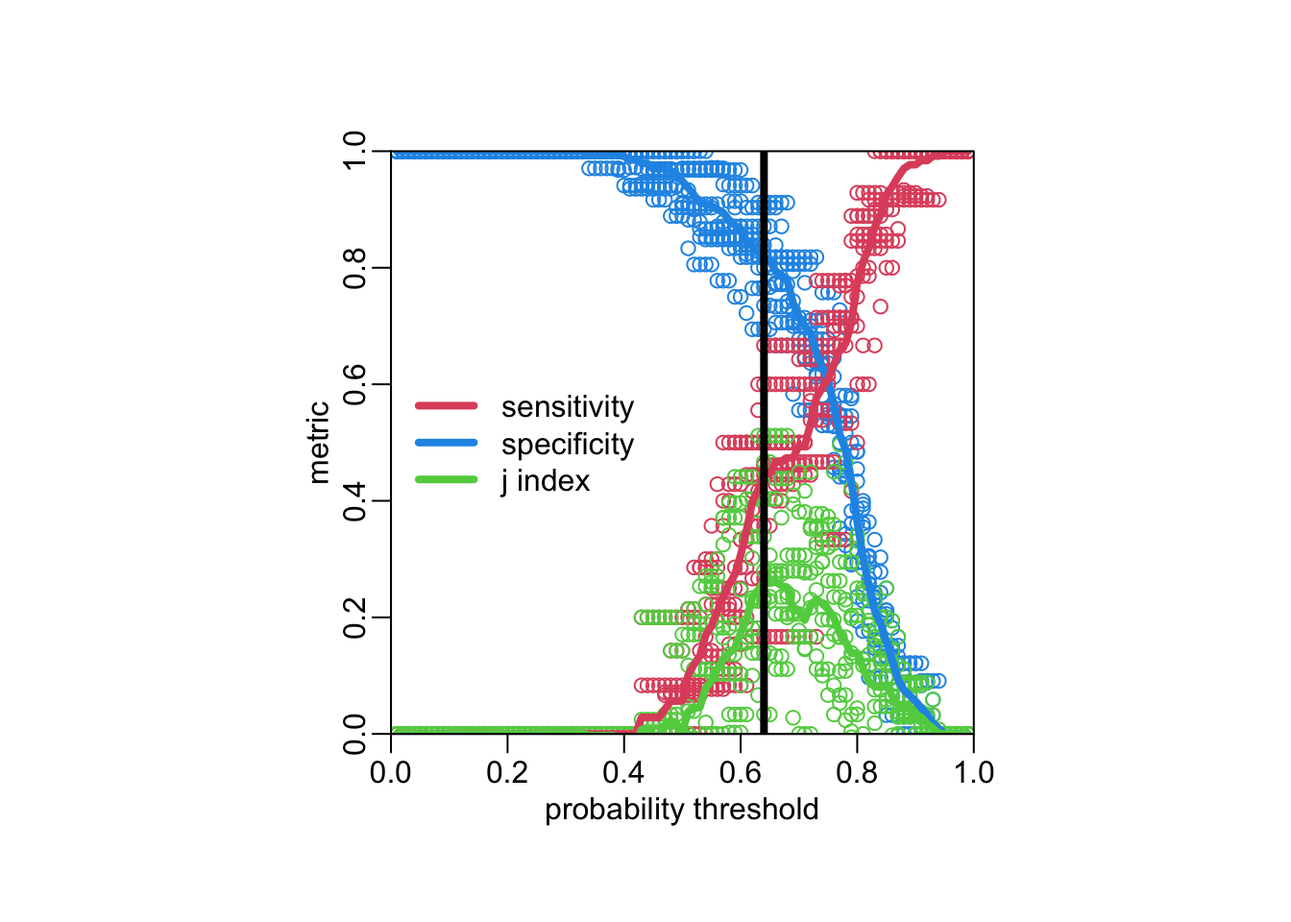
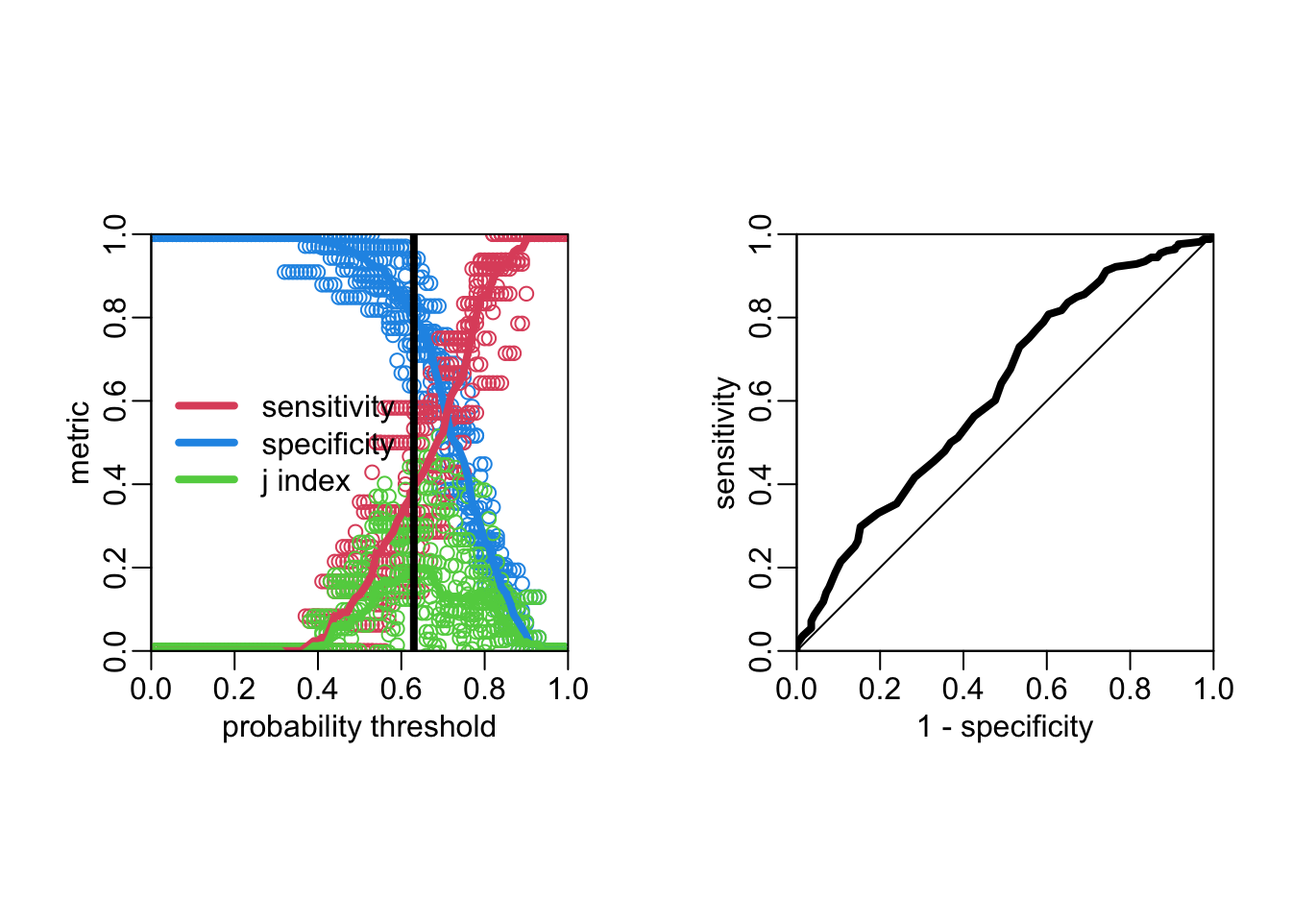
Adding verbatims

diff --git a/analysis.html b/analysis.html
@@ -98,8 +98,8 @@ pre > code.sourceCode > span > a:first-child::before { text-decoration: underlin
 
 <section id="parameters" class="level2">
 <h2 class="anchored" data-anchor-id="parameters">Parameters</h2>
-<p>The data to the data:</p>
-<div class="cell">
+<p>The path to the data:</p>
+<div class="cell" data-layout-align="center">
 <div class="sourceCode cell-code" id="cb1"><pre class="sourceCode r code-with-copy"><code class="sourceCode r"><span id="cb1-1"><a href="#cb1-1" aria-hidden="true" tabindex="-1"></a>data_path <span class="ot">&lt;-</span> <span class="fu">paste0</span>(<span class="st">"/Users/MarcChoisy/Library/CloudStorage/"</span>,</span>
 <span id="cb1-2"><a href="#cb1-2" aria-hidden="true" tabindex="-1"></a>                    <span class="st">"OneDrive-OxfordUniversityClinicalResearchUnit/"</span>,</span>
 <span id="cb1-3"><a href="#cb1-3" aria-hidden="true" tabindex="-1"></a>                    <span class="st">"GitHub/choisy/typhoid/"</span>)</span></code><button title="Copy to Clipboard" class="code-copy-button"><i class="bi"></i></button></pre></div>
@@ -107,18 +107,18 @@ pre > code.sourceCode > span > a:first-child::before { text-decoration: underlin
 </section>
 <section id="packages" class="level2">
 <h2 class="anchored" data-anchor-id="packages">Packages</h2>
-<p>Needed packages:</p>
-<div class="cell">
-<div class="sourceCode cell-code" id="cb2"><pre class="sourceCode r code-with-copy"><code class="sourceCode r"><span id="cb2-1"><a href="#cb2-1" aria-hidden="true" tabindex="-1"></a>needed_packages <span class="ot">&lt;-</span> <span class="fu">c</span>(<span class="st">"readxl"</span>, <span class="st">"dplyr"</span>, <span class="st">"purrr"</span>, <span class="st">"rsample"</span>, <span class="st">"parsnip"</span>, <span class="st">"probably"</span>,</span>
+<p>required packages:</p>
+<div class="cell" data-layout-align="center">
+<div class="sourceCode cell-code" id="cb2"><pre class="sourceCode r code-with-copy"><code class="sourceCode r"><span id="cb2-1"><a href="#cb2-1" aria-hidden="true" tabindex="-1"></a>required_packages <span class="ot">&lt;-</span> <span class="fu">c</span>(<span class="st">"readxl"</span>, <span class="st">"dplyr"</span>, <span class="st">"purrr"</span>, <span class="st">"rsample"</span>, <span class="st">"parsnip"</span>, <span class="st">"probably"</span>,</span>
 <span id="cb2-2"><a href="#cb2-2" aria-hidden="true" tabindex="-1"></a>                     <span class="st">"magrittr"</span>, <span class="st">"yardstick"</span>, <span class="st">"tidyr"</span>)</span></code><button title="Copy to Clipboard" class="code-copy-button"><i class="bi"></i></button></pre></div>
 </div>
 <p>Making sure that needed packages are installed:</p>
-<div class="cell">
-<div class="sourceCode cell-code" id="cb3"><pre class="sourceCode r code-with-copy"><code class="sourceCode r"><span id="cb3-1"><a href="#cb3-1" aria-hidden="true" tabindex="-1"></a>to_install <span class="ot">&lt;-</span> needed_packages[<span class="sc">!</span> needed_packages <span class="sc">%in%</span> <span class="fu">installed.packages</span>()[,<span class="st">"Package"</span>]]</span>
+<div class="cell" data-layout-align="center">
+<div class="sourceCode cell-code" id="cb3"><pre class="sourceCode r code-with-copy"><code class="sourceCode r"><span id="cb3-1"><a href="#cb3-1" aria-hidden="true" tabindex="-1"></a>to_install <span class="ot">&lt;-</span> required_packages[<span class="sc">!</span> required_packages <span class="sc">%in%</span> <span class="fu">installed.packages</span>()[,<span class="st">"Package"</span>]]</span>
 <span id="cb3-2"><a href="#cb3-2" aria-hidden="true" tabindex="-1"></a><span class="cf">if</span> (<span class="fu">length</span>(to_install)) <span class="fu">install.packages</span>(to_install)</span></code><button title="Copy to Clipboard" class="code-copy-button"><i class="bi"></i></button></pre></div>
 </div>
 <p>Loading some of these packages:</p>
-<div class="cell">
+<div class="cell" data-layout-align="center">
 <div class="sourceCode cell-code" id="cb4"><pre class="sourceCode r code-with-copy"><code class="sourceCode r"><span id="cb4-1"><a href="#cb4-1" aria-hidden="true" tabindex="-1"></a><span class="fu">library</span>(dplyr)</span>
 <span id="cb4-2"><a href="#cb4-2" aria-hidden="true" tabindex="-1"></a><span class="fu">library</span>(purrr)</span>
 <span id="cb4-3"><a href="#cb4-3" aria-hidden="true" tabindex="-1"></a><span class="fu">library</span>(rsample)</span>
@@ -132,12 +132,12 @@ pre > code.sourceCode > span > a:first-child::before { text-decoration: underlin
 </section>
 <section id="reading-and-cleaning-data" class="level2">
 <h2 class="anchored" data-anchor-id="reading-and-cleaning-data">Reading and cleaning data</h2>
-<div class="cell">
+<div class="cell" data-layout-align="center">
 <div class="sourceCode cell-code" id="cb5"><pre class="sourceCode r code-with-copy"><code class="sourceCode r"><span id="cb5-1"><a href="#cb5-1" aria-hidden="true" tabindex="-1"></a>files <span class="ot">&lt;-</span> <span class="fu">dir</span>(data_path)</span>
 <span id="cb5-2"><a href="#cb5-2" aria-hidden="true" tabindex="-1"></a>nepal_index <span class="ot">&lt;-</span> <span class="fu">grep</span>(<span class="st">"nepal"</span>, files)</span>
 <span id="cb5-3"><a href="#cb5-3" aria-hidden="true" tabindex="-1"></a>cambd_index <span class="ot">&lt;-</span> <span class="fu">grep</span>(<span class="st">"camb"</span>, files)</span></code><button title="Copy to Clipboard" class="code-copy-button"><i class="bi"></i></button></pre></div>
 </div>
-<div class="cell">
+<div class="cell" data-layout-align="center">
 <div class="sourceCode cell-code" id="cb6"><pre class="sourceCode r code-with-copy"><code class="sourceCode r"><span id="cb6-1"><a href="#cb6-1" aria-hidden="true" tabindex="-1"></a>nepal <span class="ot">&lt;-</span> data_path <span class="sc">|&gt;</span></span>
 <span id="cb6-2"><a href="#cb6-2" aria-hidden="true" tabindex="-1"></a>  <span class="fu">paste0</span>(files[nepal_index]) <span class="sc">|&gt;</span></span>
 <span id="cb6-3"><a href="#cb6-3" aria-hidden="true" tabindex="-1"></a>  readxl<span class="sc">::</span><span class="fu">read_excel</span>() <span class="sc">|&gt;</span> </span>
@@ -171,7 +171,7 @@ pre > code.sourceCode > span > a:first-child::before { text-decoration: underlin
 • `CRP_gro` -&gt; `CRP_gro...53`</code></pre>
 </div>
 </div>
-<div class="cell">
+<div class="cell" data-layout-align="center">
 <div class="sourceCode cell-code" id="cb8"><pre class="sourceCode r code-with-copy"><code class="sourceCode r"><span id="cb8-1"><a href="#cb8-1" aria-hidden="true" tabindex="-1"></a>cambodia <span class="ot">&lt;-</span> readxl<span class="sc">::</span><span class="fu">read_excel</span>(<span class="fu">paste0</span>(data_path, files[cambd_index]))</span></code><button title="Copy to Clipboard" class="code-copy-button"><i class="bi"></i></button></pre></div>
 <div class="cell-output cell-output-stderr">
 <pre><code>New names:
@@ -185,7 +185,7 @@ pre > code.sourceCode > span > a:first-child::before { text-decoration: underlin
 <section id="feature-engineering" class="level2">
 <h2 class="anchored" data-anchor-id="feature-engineering">Feature engineering</h2>
 <p>Nepal data set:</p>
-<div class="cell">
+<div class="cell" data-layout-align="center">
 <div class="sourceCode cell-code" id="cb10"><pre class="sourceCode r code-with-copy"><code class="sourceCode r"><span id="cb10-1"><a href="#cb10-1" aria-hidden="true" tabindex="-1"></a>nepal2 <span class="ot">&lt;-</span> nepal <span class="sc">|&gt;</span> </span>
 <span id="cb10-2"><a href="#cb10-2" aria-hidden="true" tabindex="-1"></a>  <span class="fu">mutate</span>(<span class="fu">across</span>(<span class="fu">c</span>(Cough, Diarrhoea, vomiting, Abdopain, Constipation, Headache,</span>
 <span id="cb10-3"><a href="#cb10-3" aria-hidden="true" tabindex="-1"></a>                  Anorexia, Nausea, Typhoid_IgM), <span class="sc">~</span> .x <span class="sc">&gt;</span> <span class="dv">0</span>),</span>
@@ -198,33 +198,44 @@ pre > code.sourceCode > span > a:first-child::before { text-decoration: underlin
 <span id="cb10-10"><a href="#cb10-10" aria-hidden="true" tabindex="-1"></a>  <span class="fu">select</span>(BloodCSResult, Sex, Age, <span class="fu">contains</span>(<span class="st">"core"</span>), <span class="fu">where</span>(is.logical), <span class="fu">everything</span>())</span></code><button title="Copy to Clipboard" class="code-copy-button"><i class="bi"></i></button></pre></div>
 </div>
 </section>
-<section id="logistic-regression" class="level2">
-<h2 class="anchored" data-anchor-id="logistic-regression">Logistic regression</h2>
-<div class="cell">
-<div class="sourceCode cell-code" id="cb11"><pre class="sourceCode r code-with-copy"><code class="sourceCode r"><span id="cb11-1"><a href="#cb11-1" aria-hidden="true" tabindex="-1"></a>nepal3 <span class="ot">&lt;-</span> nepal2[, <span class="fu">c</span>(<span class="dv">1</span>, <span class="dv">9</span><span class="sc">:</span><span class="dv">17</span>)]</span>
-<span id="cb11-2"><a href="#cb11-2" aria-hidden="true" tabindex="-1"></a>data_split <span class="ot">&lt;-</span> <span class="fu">initial_split</span>(nepal3)</span>
-<span id="cb11-3"><a href="#cb11-3" aria-hidden="true" tabindex="-1"></a>train_data <span class="ot">&lt;-</span> <span class="fu">training</span>(data_split)</span>
-<span id="cb11-4"><a href="#cb11-4" aria-hidden="true" tabindex="-1"></a>test_data <span class="ot">&lt;-</span> <span class="fu">testing</span>(data_split)</span></code><button title="Copy to Clipboard" class="code-copy-button"><i class="bi"></i></button></pre></div>
+<section id="a-classifier-based-on-logistic-regression" class="level2">
+<h2 class="anchored" data-anchor-id="a-classifier-based-on-logistic-regression">A classifier based on logistic regression</h2>
+<section id="a-logistic-regression-model" class="level3">
+<h3 class="anchored" data-anchor-id="a-logistic-regression-model">A logistic regression model</h3>
+<p>Let’s start with a simple example where we consider only the symptom variables:</p>
+<div class="cell" data-layout-align="center">
+<div class="sourceCode cell-code" id="cb11"><pre class="sourceCode r code-with-copy"><code class="sourceCode r"><span id="cb11-1"><a href="#cb11-1" aria-hidden="true" tabindex="-1"></a>nepal3 <span class="ot">&lt;-</span> nepal2[, <span class="fu">c</span>(<span class="dv">1</span>, <span class="dv">9</span><span class="sc">:</span><span class="dv">17</span>)]</span></code><button title="Copy to Clipboard" class="code-copy-button"><i class="bi"></i></button></pre></div>
 </div>
-<div class="cell">
-<div class="sourceCode cell-code" id="cb12"><pre class="sourceCode r code-with-copy"><code class="sourceCode r"><span id="cb12-1"><a href="#cb12-1" aria-hidden="true" tabindex="-1"></a>model <span class="ot">&lt;-</span> <span class="fu">logistic_reg</span>() <span class="sc">|&gt;</span> </span>
-<span id="cb12-2"><a href="#cb12-2" aria-hidden="true" tabindex="-1"></a>  <span class="fu">set_engine</span>(<span class="st">"glm"</span>)</span></code><button title="Copy to Clipboard" class="code-copy-button"><i class="bi"></i></button></pre></div>
+<p>Let’s create the train and test data sets:</p>
+<div class="cell" data-layout-align="center">
+<div class="sourceCode cell-code" id="cb12"><pre class="sourceCode r code-with-copy"><code class="sourceCode r"><span id="cb12-1"><a href="#cb12-1" aria-hidden="true" tabindex="-1"></a>data_split <span class="ot">&lt;-</span> <span class="fu">initial_split</span>(nepal3)</span>
+<span id="cb12-2"><a href="#cb12-2" aria-hidden="true" tabindex="-1"></a>train_data <span class="ot">&lt;-</span> <span class="fu">training</span>(data_split)</span>
+<span id="cb12-3"><a href="#cb12-3" aria-hidden="true" tabindex="-1"></a>test_data <span class="ot">&lt;-</span> <span class="fu">testing</span>(data_split)</span></code><button title="Copy to Clipboard" class="code-copy-button"><i class="bi"></i></button></pre></div>
 </div>
-<div class="cell">
-<div class="sourceCode cell-code" id="cb13"><pre class="sourceCode r code-with-copy"><code class="sourceCode r"><span id="cb13-1"><a href="#cb13-1" aria-hidden="true" tabindex="-1"></a>recette <span class="ot">&lt;-</span> <span class="fu">recipe</span>(BloodCSResult <span class="sc">~</span> ., <span class="at">data =</span> train_data)</span></code><button title="Copy to Clipboard" class="code-copy-button"><i class="bi"></i></button></pre></div>
+<p>Defining the logistic regression:</p>
+<div class="cell" data-layout-align="center">
+<div class="sourceCode cell-code" id="cb13"><pre class="sourceCode r code-with-copy"><code class="sourceCode r"><span id="cb13-1"><a href="#cb13-1" aria-hidden="true" tabindex="-1"></a>model <span class="ot">&lt;-</span> <span class="fu">logistic_reg</span>() <span class="sc">|&gt;</span> </span>
+<span id="cb13-2"><a href="#cb13-2" aria-hidden="true" tabindex="-1"></a>  <span class="fu">set_engine</span>(<span class="st">"glm"</span>)</span></code><button title="Copy to Clipboard" class="code-copy-button"><i class="bi"></i></button></pre></div>
 </div>
-<div class="cell">
-<div class="sourceCode cell-code" id="cb14"><pre class="sourceCode r code-with-copy"><code class="sourceCode r"><span id="cb14-1"><a href="#cb14-1" aria-hidden="true" tabindex="-1"></a>wflow <span class="ot">&lt;-</span> <span class="fu">workflow</span>() <span class="sc">|&gt;</span> </span>
-<span id="cb14-2"><a href="#cb14-2" aria-hidden="true" tabindex="-1"></a>  <span class="fu">add_recipe</span>(recette) <span class="sc">|&gt;</span> </span>
-<span id="cb14-3"><a href="#cb14-3" aria-hidden="true" tabindex="-1"></a>  <span class="fu">add_model</span>(model)</span></code><button title="Copy to Clipboard" class="code-copy-button"><i class="bi"></i></button></pre></div>
+<p>The formula of the classifier:</p>
+<div class="cell" data-layout-align="center">
+<div class="sourceCode cell-code" id="cb14"><pre class="sourceCode r code-with-copy"><code class="sourceCode r"><span id="cb14-1"><a href="#cb14-1" aria-hidden="true" tabindex="-1"></a>recette <span class="ot">&lt;-</span> <span class="fu">recipe</span>(BloodCSResult <span class="sc">~</span> ., <span class="at">data =</span> train_data)</span></code><button title="Copy to Clipboard" class="code-copy-button"><i class="bi"></i></button></pre></div>
 </div>
-<div class="cell">
-<div class="sourceCode cell-code" id="cb15"><pre class="sourceCode r code-with-copy"><code class="sourceCode r"><span id="cb15-1"><a href="#cb15-1" aria-hidden="true" tabindex="-1"></a>folds <span class="ot">&lt;-</span> <span class="fu">vfold_cv</span>(train_data)</span></code><button title="Copy to Clipboard" class="code-copy-button"><i class="bi"></i></button></pre></div>
+<p>Let’s put the logistic regression and the formula together:</p>
+<div class="cell" data-layout-align="center">
+<div class="sourceCode cell-code" id="cb15"><pre class="sourceCode r code-with-copy"><code class="sourceCode r"><span id="cb15-1"><a href="#cb15-1" aria-hidden="true" tabindex="-1"></a>wflow <span class="ot">&lt;-</span> <span class="fu">workflow</span>() <span class="sc">|&gt;</span> </span>
+<span id="cb15-2"><a href="#cb15-2" aria-hidden="true" tabindex="-1"></a>  <span class="fu">add_recipe</span>(recette) <span class="sc">|&gt;</span> </span>
+<span id="cb15-3"><a href="#cb15-3" aria-hidden="true" tabindex="-1"></a>  <span class="fu">add_model</span>(model)</span></code><button title="Copy to Clipboard" class="code-copy-button"><i class="bi"></i></button></pre></div>
 </div>
-<div class="cell">
-<div class="sourceCode cell-code" id="cb16"><pre class="sourceCode r code-with-copy"><code class="sourceCode r"><span id="cb16-1"><a href="#cb16-1" aria-hidden="true" tabindex="-1"></a>metrics2 <span class="ot">&lt;-</span> <span class="fu">metric_set</span>(sens, spec)</span></code><button title="Copy to Clipboard" class="code-copy-button"><i class="bi"></i></button></pre></div>
+</section>
+<section id="making-and-training-a-classifier" class="level3">
+<h3 class="anchored" data-anchor-id="making-and-training-a-classifier">Making and training a classifier</h3>
+<p>So far with have a logistic regression model. It can be used as such as a classifier, in which case it will by default assign <code>TRUE</code> to a probability above 0.5 and <code>FALSE</code> otherwise. But maybe this 0.5 probability threshold is not the optimal value for the classification task. This threshold can be considered as a hyper-parameter to be tuned. Here is the task is quite easy since there is only one hyper-parameter and that this hyper-parameter is constrained to be between 0 and 1. We can thus do an exhaustive search. To do so we will do a 10-fold cross validation scheme to make sure that the value of the hyper-parameter is assessed on unseen data.</p>
+<div class="cell" data-layout-align="center">
+<div class="sourceCode cell-code" id="cb16"><pre class="sourceCode r code-with-copy"><code class="sourceCode r"><span id="cb16-1"><a href="#cb16-1" aria-hidden="true" tabindex="-1"></a>folds <span class="ot">&lt;-</span> <span class="fu">vfold_cv</span>(train_data)</span></code><button title="Copy to Clipboard" class="code-copy-button"><i class="bi"></i></button></pre></div>
 </div>
-<div class="cell">
+<p>The following function fit the logistic regression on the training set of a given <code>fold</code> and then compute the performance metrics for threshold values varying between <code>epsilon</code> and <code>1 - epsilon</code> by step of <code>epsilon</code> on the evaluation set of the <code>fold</code>.</p>
+<div class="cell" data-layout-align="center">
 <div class="sourceCode cell-code" id="cb17"><pre class="sourceCode r code-with-copy"><code class="sourceCode r"><span id="cb17-1"><a href="#cb17-1" aria-hidden="true" tabindex="-1"></a>compute_metrics2 <span class="ot">&lt;-</span> <span class="cf">function</span>(fold, <span class="at">epsilon =</span> .<span class="dv">01</span>) {</span>
 <span id="cb17-2"><a href="#cb17-2" aria-hidden="true" tabindex="-1"></a>  thresholds <span class="ot">&lt;-</span> <span class="fu">seq</span>(epsilon, <span class="dv">1</span> <span class="sc">-</span> epsilon, epsilon)</span>
 <span id="cb17-3"><a href="#cb17-3" aria-hidden="true" tabindex="-1"></a>  validate_data <span class="ot">&lt;-</span> <span class="fu">testing</span>(<span class="fu">get_rsplit</span>(folds, fold))</span>
@@ -236,13 +247,15 @@ pre > code.sourceCode > span > a:first-child::before { text-decoration: underlin
 <span id="cb17-9"><a href="#cb17-9" aria-hidden="true" tabindex="-1"></a>    <span class="fu">mutate</span>(<span class="at">fold =</span> fold)</span>
 <span id="cb17-10"><a href="#cb17-10" aria-hidden="true" tabindex="-1"></a>}</span></code><button title="Copy to Clipboard" class="code-copy-button"><i class="bi"></i></button></pre></div>
 </div>
-<div class="cell">
+<p>Calling this function for the folds and gathering the output in a data frame:</p>
+<div class="cell" data-layout-align="center">
 <div class="sourceCode cell-code" id="cb18"><pre class="sourceCode r code-with-copy"><code class="sourceCode r"><span id="cb18-1"><a href="#cb18-1" aria-hidden="true" tabindex="-1"></a>the_metrics <span class="ot">&lt;-</span> folds <span class="sc">|&gt;</span> </span>
 <span id="cb18-2"><a href="#cb18-2" aria-hidden="true" tabindex="-1"></a>  <span class="fu">nrow</span>() <span class="sc">|&gt;</span> </span>
 <span id="cb18-3"><a href="#cb18-3" aria-hidden="true" tabindex="-1"></a>  <span class="fu">seq_len</span>() <span class="sc">|&gt;</span></span>
 <span id="cb18-4"><a href="#cb18-4" aria-hidden="true" tabindex="-1"></a>  <span class="fu">map_dfr</span>(compute_metrics2)</span></code><button title="Copy to Clipboard" class="code-copy-button"><i class="bi"></i></button></pre></div>
 </div>
-<div class="cell">
+<p>Computing the mean of the metrics across the folds:</p>
+<div class="cell" data-layout-align="center">
 <div class="sourceCode cell-code" id="cb19"><pre class="sourceCode r code-with-copy"><code class="sourceCode r"><span id="cb19-1"><a href="#cb19-1" aria-hidden="true" tabindex="-1"></a>the_metrics2 <span class="ot">&lt;-</span> the_metrics <span class="sc">|&gt;</span> </span>
 <span id="cb19-2"><a href="#cb19-2" aria-hidden="true" tabindex="-1"></a>  <span class="fu">group_by</span>(.threshold, .metric) <span class="sc">|&gt;</span> </span>
 <span id="cb19-3"><a href="#cb19-3" aria-hidden="true" tabindex="-1"></a>  <span class="fu">summarise</span>(<span class="at">estimate =</span> <span class="fu">mean</span>(.estimate)) <span class="sc">|&gt;</span> </span>
@@ -252,89 +265,90 @@ pre > code.sourceCode > span > a:first-child::before { text-decoration: underlin
 `.groups` argument.</code></pre>
 </div>
 </div>
-<div class="cell">
+<p>Displaying the metrics and the optimal value of the hyper-parameter:</p>
+<div class="cell" data-layout-align="center">
 <div class="sourceCode cell-code" id="cb21"><pre class="sourceCode r code-with-copy"><code class="sourceCode r"><span id="cb21-1"><a href="#cb21-1" aria-hidden="true" tabindex="-1"></a>lwd_val <span class="ot">&lt;-</span> <span class="dv">4</span></span>
 <span id="cb21-2"><a href="#cb21-2" aria-hidden="true" tabindex="-1"></a>lines2 <span class="ot">&lt;-</span> <span class="cf">function</span>(...) <span class="fu">lines</span>(..., <span class="at">lwd =</span> lwd_val)</span>
 <span id="cb21-3"><a href="#cb21-3" aria-hidden="true" tabindex="-1"></a>plot2 <span class="ot">&lt;-</span> <span class="cf">function</span>(...) <span class="fu">plot</span>(..., <span class="at">asp =</span> <span class="dv">1</span>, <span class="at">xaxs =</span> <span class="st">"i"</span>, <span class="at">yaxs =</span> <span class="st">"i"</span>)</span>
 <span id="cb21-4"><a href="#cb21-4" aria-hidden="true" tabindex="-1"></a></span>
-<span id="cb21-5"><a href="#cb21-5" aria-hidden="true" tabindex="-1"></a>opar <span class="ot">&lt;-</span> <span class="fu">par</span>(<span class="at">pty =</span> <span class="st">"s"</span>)</span>
+<span id="cb21-5"><a href="#cb21-5" aria-hidden="true" tabindex="-1"></a>opar <span class="ot">&lt;-</span> <span class="fu">par</span>(<span class="at">pty =</span> <span class="st">"s"</span>, <span class="at">mfrow =</span> <span class="dv">1</span><span class="sc">:</span><span class="dv">2</span>)</span>
 <span id="cb21-6"><a href="#cb21-6" aria-hidden="true" tabindex="-1"></a></span>
-<span id="cb21-7"><a href="#cb21-7" aria-hidden="true" tabindex="-1"></a>the_metrics <span class="sc">|&gt;</span> </span>
-<span id="cb21-8"><a href="#cb21-8" aria-hidden="true" tabindex="-1"></a>  <span class="fu">filter</span>(.metric <span class="sc">==</span> <span class="st">"sensitivity"</span>) <span class="sc">|&gt;</span> </span>
-<span id="cb21-9"><a href="#cb21-9" aria-hidden="true" tabindex="-1"></a>  <span class="fu">with</span>(<span class="fu">plot2</span>(.threshold, .estimate, <span class="at">col =</span> <span class="dv">4</span>,</span>
-<span id="cb21-10"><a href="#cb21-10" aria-hidden="true" tabindex="-1"></a>             <span class="at">xlab =</span> <span class="st">"probability threshold"</span>, <span class="at">ylab =</span> <span class="st">"metric"</span>))</span>
-<span id="cb21-11"><a href="#cb21-11" aria-hidden="true" tabindex="-1"></a></span>
-<span id="cb21-12"><a href="#cb21-12" aria-hidden="true" tabindex="-1"></a>the_metrics <span class="sc">|&gt;</span> </span>
-<span id="cb21-13"><a href="#cb21-13" aria-hidden="true" tabindex="-1"></a>  <span class="fu">filter</span>(.metric <span class="sc">==</span> <span class="st">"specificity"</span>) <span class="sc">|&gt;</span> </span>
-<span id="cb21-14"><a href="#cb21-14" aria-hidden="true" tabindex="-1"></a>  <span class="fu">with</span>(<span class="fu">points</span>(.threshold, .estimate, <span class="at">col =</span> <span class="dv">2</span>))</span>
-<span id="cb21-15"><a href="#cb21-15" aria-hidden="true" tabindex="-1"></a></span>
-<span id="cb21-16"><a href="#cb21-16" aria-hidden="true" tabindex="-1"></a>the_metrics <span class="sc">|&gt;</span> </span>
-<span id="cb21-17"><a href="#cb21-17" aria-hidden="true" tabindex="-1"></a>  <span class="fu">filter</span>(.metric <span class="sc">==</span> <span class="st">"j_index"</span>) <span class="sc">|&gt;</span> </span>
-<span id="cb21-18"><a href="#cb21-18" aria-hidden="true" tabindex="-1"></a>  <span class="fu">with</span>(<span class="fu">points</span>(.threshold, .estimate, <span class="at">col =</span> <span class="dv">3</span>))</span>
-<span id="cb21-19"><a href="#cb21-19" aria-hidden="true" tabindex="-1"></a></span>
-<span id="cb21-20"><a href="#cb21-20" aria-hidden="true" tabindex="-1"></a>the_metrics2 <span class="sc">|&gt;</span> </span>
-<span id="cb21-21"><a href="#cb21-21" aria-hidden="true" tabindex="-1"></a>  <span class="fu">filter</span>(.metric <span class="sc">==</span> <span class="st">"sensitivity"</span>) <span class="sc">|&gt;</span> </span>
-<span id="cb21-22"><a href="#cb21-22" aria-hidden="true" tabindex="-1"></a>  <span class="fu">with</span>(<span class="fu">lines2</span>(.threshold, estimate, <span class="at">col =</span> <span class="dv">4</span>))</span>
-<span id="cb21-23"><a href="#cb21-23" aria-hidden="true" tabindex="-1"></a></span>
-<span id="cb21-24"><a href="#cb21-24" aria-hidden="true" tabindex="-1"></a>the_metrics2 <span class="sc">|&gt;</span> </span>
-<span id="cb21-25"><a href="#cb21-25" aria-hidden="true" tabindex="-1"></a>  <span class="fu">filter</span>(.metric <span class="sc">==</span> <span class="st">"specificity"</span>) <span class="sc">|&gt;</span> </span>
-<span id="cb21-26"><a href="#cb21-26" aria-hidden="true" tabindex="-1"></a>  <span class="fu">with</span>(<span class="fu">lines2</span>(.threshold, estimate, <span class="at">col =</span> <span class="dv">2</span>))</span>
-<span id="cb21-27"><a href="#cb21-27" aria-hidden="true" tabindex="-1"></a></span>
-<span id="cb21-28"><a href="#cb21-28" aria-hidden="true" tabindex="-1"></a>the_metrics2 <span class="sc">|&gt;</span> </span>
-<span id="cb21-29"><a href="#cb21-29" aria-hidden="true" tabindex="-1"></a>  <span class="fu">filter</span>(.metric <span class="sc">==</span> <span class="st">"j_index"</span>) <span class="sc">|&gt;</span> </span>
-<span id="cb21-30"><a href="#cb21-30" aria-hidden="true" tabindex="-1"></a>  <span class="fu">with</span>(<span class="fu">lines2</span>(.threshold, estimate, <span class="at">col =</span> <span class="dv">3</span>))</span>
-<span id="cb21-31"><a href="#cb21-31" aria-hidden="true" tabindex="-1"></a></span>
-<span id="cb21-32"><a href="#cb21-32" aria-hidden="true" tabindex="-1"></a>tuned_threshold <span class="ot">&lt;-</span> the_metrics2 <span class="sc">|&gt;</span> </span>
-<span id="cb21-33"><a href="#cb21-33" aria-hidden="true" tabindex="-1"></a>  <span class="fu">filter</span>(.metric <span class="sc">==</span> <span class="st">"j_index"</span>) <span class="sc">|&gt;</span> </span>
-<span id="cb21-34"><a href="#cb21-34" aria-hidden="true" tabindex="-1"></a>  <span class="fu">filter</span>(estimate <span class="sc">==</span> <span class="fu">max</span>(estimate)) <span class="sc">|&gt;</span> </span>
-<span id="cb21-35"><a href="#cb21-35" aria-hidden="true" tabindex="-1"></a>  <span class="fu">pull</span>(.threshold)</span>
-<span id="cb21-36"><a href="#cb21-36" aria-hidden="true" tabindex="-1"></a></span>
-<span id="cb21-37"><a href="#cb21-37" aria-hidden="true" tabindex="-1"></a><span class="fu">abline</span>(<span class="at">v =</span> tuned_threshold, <span class="at">lwd =</span> lwd_val)</span>
-<span id="cb21-38"><a href="#cb21-38" aria-hidden="true" tabindex="-1"></a></span>
+<span id="cb21-7"><a href="#cb21-7" aria-hidden="true" tabindex="-1"></a><span class="co"># Left panel:</span></span>
+<span id="cb21-8"><a href="#cb21-8" aria-hidden="true" tabindex="-1"></a>the_metrics <span class="sc">|&gt;</span> </span>
+<span id="cb21-9"><a href="#cb21-9" aria-hidden="true" tabindex="-1"></a>  <span class="fu">filter</span>(.metric <span class="sc">==</span> <span class="st">"sensitivity"</span>) <span class="sc">|&gt;</span> </span>
+<span id="cb21-10"><a href="#cb21-10" aria-hidden="true" tabindex="-1"></a>  <span class="fu">with</span>(<span class="fu">plot2</span>(.threshold, .estimate, <span class="at">col =</span> <span class="dv">4</span>,</span>
+<span id="cb21-11"><a href="#cb21-11" aria-hidden="true" tabindex="-1"></a>             <span class="at">xlab =</span> <span class="st">"probability threshold"</span>, <span class="at">ylab =</span> <span class="st">"metric"</span>))</span>
+<span id="cb21-12"><a href="#cb21-12" aria-hidden="true" tabindex="-1"></a></span>
+<span id="cb21-13"><a href="#cb21-13" aria-hidden="true" tabindex="-1"></a>the_metrics <span class="sc">|&gt;</span> </span>
+<span id="cb21-14"><a href="#cb21-14" aria-hidden="true" tabindex="-1"></a>  <span class="fu">filter</span>(.metric <span class="sc">==</span> <span class="st">"specificity"</span>) <span class="sc">|&gt;</span> </span>
+<span id="cb21-15"><a href="#cb21-15" aria-hidden="true" tabindex="-1"></a>  <span class="fu">with</span>(<span class="fu">points</span>(.threshold, .estimate, <span class="at">col =</span> <span class="dv">2</span>))</span>
+<span id="cb21-16"><a href="#cb21-16" aria-hidden="true" tabindex="-1"></a></span>
+<span id="cb21-17"><a href="#cb21-17" aria-hidden="true" tabindex="-1"></a>the_metrics <span class="sc">|&gt;</span> </span>
+<span id="cb21-18"><a href="#cb21-18" aria-hidden="true" tabindex="-1"></a>  <span class="fu">filter</span>(.metric <span class="sc">==</span> <span class="st">"j_index"</span>) <span class="sc">|&gt;</span> </span>
+<span id="cb21-19"><a href="#cb21-19" aria-hidden="true" tabindex="-1"></a>  <span class="fu">with</span>(<span class="fu">points</span>(.threshold, .estimate, <span class="at">col =</span> <span class="dv">3</span>))</span>
+<span id="cb21-20"><a href="#cb21-20" aria-hidden="true" tabindex="-1"></a></span>
+<span id="cb21-21"><a href="#cb21-21" aria-hidden="true" tabindex="-1"></a>the_metrics2 <span class="sc">|&gt;</span> </span>
+<span id="cb21-22"><a href="#cb21-22" aria-hidden="true" tabindex="-1"></a>  <span class="fu">filter</span>(.metric <span class="sc">==</span> <span class="st">"sensitivity"</span>) <span class="sc">|&gt;</span> </span>
+<span id="cb21-23"><a href="#cb21-23" aria-hidden="true" tabindex="-1"></a>  <span class="fu">with</span>(<span class="fu">lines2</span>(.threshold, estimate, <span class="at">col =</span> <span class="dv">4</span>))</span>
+<span id="cb21-24"><a href="#cb21-24" aria-hidden="true" tabindex="-1"></a></span>
+<span id="cb21-25"><a href="#cb21-25" aria-hidden="true" tabindex="-1"></a>the_metrics2 <span class="sc">|&gt;</span> </span>
+<span id="cb21-26"><a href="#cb21-26" aria-hidden="true" tabindex="-1"></a>  <span class="fu">filter</span>(.metric <span class="sc">==</span> <span class="st">"specificity"</span>) <span class="sc">|&gt;</span> </span>
+<span id="cb21-27"><a href="#cb21-27" aria-hidden="true" tabindex="-1"></a>  <span class="fu">with</span>(<span class="fu">lines2</span>(.threshold, estimate, <span class="at">col =</span> <span class="dv">2</span>))</span>
+<span id="cb21-28"><a href="#cb21-28" aria-hidden="true" tabindex="-1"></a></span>
+<span id="cb21-29"><a href="#cb21-29" aria-hidden="true" tabindex="-1"></a>the_metrics2 <span class="sc">|&gt;</span> </span>
+<span id="cb21-30"><a href="#cb21-30" aria-hidden="true" tabindex="-1"></a>  <span class="fu">filter</span>(.metric <span class="sc">==</span> <span class="st">"j_index"</span>) <span class="sc">|&gt;</span> </span>
+<span id="cb21-31"><a href="#cb21-31" aria-hidden="true" tabindex="-1"></a>  <span class="fu">with</span>(<span class="fu">lines2</span>(.threshold, estimate, <span class="at">col =</span> <span class="dv">3</span>))</span>
+<span id="cb21-32"><a href="#cb21-32" aria-hidden="true" tabindex="-1"></a></span>
+<span id="cb21-33"><a href="#cb21-33" aria-hidden="true" tabindex="-1"></a>tuned_threshold <span class="ot">&lt;-</span> the_metrics2 <span class="sc">|&gt;</span> </span>
+<span id="cb21-34"><a href="#cb21-34" aria-hidden="true" tabindex="-1"></a>  <span class="fu">filter</span>(.metric <span class="sc">==</span> <span class="st">"j_index"</span>) <span class="sc">|&gt;</span> </span>
+<span id="cb21-35"><a href="#cb21-35" aria-hidden="true" tabindex="-1"></a>  <span class="fu">filter</span>(estimate <span class="sc">==</span> <span class="fu">max</span>(estimate)) <span class="sc">|&gt;</span> </span>
+<span id="cb21-36"><a href="#cb21-36" aria-hidden="true" tabindex="-1"></a>  <span class="fu">pull</span>(.threshold)</span>
+<span id="cb21-37"><a href="#cb21-37" aria-hidden="true" tabindex="-1"></a></span>
+<span id="cb21-38"><a href="#cb21-38" aria-hidden="true" tabindex="-1"></a><span class="fu">abline</span>(<span class="at">v =</span> tuned_threshold, <span class="at">lwd =</span> lwd_val)</span>
 <span id="cb21-39"><a href="#cb21-39" aria-hidden="true" tabindex="-1"></a></span>
 <span id="cb21-40"><a href="#cb21-40" aria-hidden="true" tabindex="-1"></a><span class="fu">legend</span>(<span class="st">"left"</span>, <span class="at">legend =</span> <span class="fu">c</span>(<span class="st">"sensitivity"</span>, <span class="st">"specificity"</span>, <span class="st">"j index"</span>),</span>
 <span id="cb21-41"><a href="#cb21-41" aria-hidden="true" tabindex="-1"></a>       <span class="at">col =</span> <span class="fu">c</span>(<span class="dv">2</span>, <span class="dv">4</span>, <span class="dv">3</span>), <span class="at">lwd =</span> lwd_val, <span class="at">bty =</span> <span class="st">"n"</span>)</span>
-<span id="cb21-42"><a href="#cb21-42" aria-hidden="true" tabindex="-1"></a><span class="fu">box</span>(<span class="at">bty =</span> <span class="st">"o"</span>)</span></code><button title="Copy to Clipboard" class="code-copy-button"><i class="bi"></i></button></pre></div>
+<span id="cb21-42"><a href="#cb21-42" aria-hidden="true" tabindex="-1"></a><span class="fu">box</span>(<span class="at">bty =</span> <span class="st">"o"</span>)</span>
+<span id="cb21-43"><a href="#cb21-43" aria-hidden="true" tabindex="-1"></a></span>
+<span id="cb21-44"><a href="#cb21-44" aria-hidden="true" tabindex="-1"></a><span class="co"># ROC curve:</span></span>
+<span id="cb21-45"><a href="#cb21-45" aria-hidden="true" tabindex="-1"></a>opar <span class="ot">&lt;-</span> <span class="fu">par</span>(<span class="at">pty =</span> <span class="st">"s"</span>)</span>
+<span id="cb21-46"><a href="#cb21-46" aria-hidden="true" tabindex="-1"></a></span>
+<span id="cb21-47"><a href="#cb21-47" aria-hidden="true" tabindex="-1"></a>the_metrics3 <span class="ot">&lt;-</span> the_metrics2 <span class="sc">|&gt;</span> </span>
+<span id="cb21-48"><a href="#cb21-48" aria-hidden="true" tabindex="-1"></a>  <span class="fu">filter</span>(.metric <span class="sc">!=</span> <span class="st">"j_index"</span>) <span class="sc">|&gt;</span> </span>
+<span id="cb21-49"><a href="#cb21-49" aria-hidden="true" tabindex="-1"></a>  tidyr<span class="sc">::</span><span class="fu">pivot_wider</span>(<span class="at">names_from =</span> .metric, <span class="at">values_from =</span> estimate)</span>
+<span id="cb21-50"><a href="#cb21-50" aria-hidden="true" tabindex="-1"></a></span>
+<span id="cb21-51"><a href="#cb21-51" aria-hidden="true" tabindex="-1"></a><span class="fu">with</span>(the_metrics3, <span class="fu">plot2</span>(<span class="dv">1</span> <span class="sc">-</span> specificity, sensitivity, <span class="at">type =</span> <span class="st">"l"</span>, <span class="at">lwd =</span> lwd_val))</span>
+<span id="cb21-52"><a href="#cb21-52" aria-hidden="true" tabindex="-1"></a></span>
+<span id="cb21-53"><a href="#cb21-53" aria-hidden="true" tabindex="-1"></a><span class="fu">abline</span>(<span class="dv">0</span>, <span class="dv">1</span>)</span>
+<span id="cb21-54"><a href="#cb21-54" aria-hidden="true" tabindex="-1"></a><span class="fu">box</span>(<span class="at">bty =</span> <span class="st">"o"</span>)</span></code><button title="Copy to Clipboard" class="code-copy-button"><i class="bi"></i></button></pre></div>
 <div class="cell-output-display">
-<div>
+<div class="quarto-figure quarto-figure-center">
 <figure class="figure">
-<p><img src="analysis_files/figure-html/unnamed-chunk-18-1.png" class="img-fluid figure-img" width="672"></p>
+<p><img src="analysis_files/figure-html/unnamed-chunk-19-1.png" class="img-fluid quarto-figure quarto-figure-center figure-img" width="806"></p>
 </figure>
 </div>
 </div>
 <div class="sourceCode cell-code" id="cb22"><pre class="sourceCode r code-with-copy"><code class="sourceCode r"><span id="cb22-1"><a href="#cb22-1" aria-hidden="true" tabindex="-1"></a><span class="fu">par</span>(opar)</span></code><button title="Copy to Clipboard" class="code-copy-button"><i class="bi"></i></button></pre></div>
 </div>
-<p>ROC curve:</p>
-<div class="cell">
-<div class="sourceCode cell-code" id="cb23"><pre class="sourceCode r code-with-copy"><code class="sourceCode r"><span id="cb23-1"><a href="#cb23-1" aria-hidden="true" tabindex="-1"></a>opar <span class="ot">&lt;-</span> <span class="fu">par</span>(<span class="at">pty =</span> <span class="st">"s"</span>)</span>
-<span id="cb23-2"><a href="#cb23-2" aria-hidden="true" tabindex="-1"></a></span>
-<span id="cb23-3"><a href="#cb23-3" aria-hidden="true" tabindex="-1"></a>the_metrics3 <span class="ot">&lt;-</span> the_metrics2 <span class="sc">|&gt;</span> </span>
-<span id="cb23-4"><a href="#cb23-4" aria-hidden="true" tabindex="-1"></a>  <span class="fu">filter</span>(.metric <span class="sc">!=</span> <span class="st">"j_index"</span>) <span class="sc">|&gt;</span> </span>
-<span id="cb23-5"><a href="#cb23-5" aria-hidden="true" tabindex="-1"></a>  tidyr<span class="sc">::</span><span class="fu">pivot_wider</span>(<span class="at">names_from =</span> .metric, <span class="at">values_from =</span> estimate)</span>
-<span id="cb23-6"><a href="#cb23-6" aria-hidden="true" tabindex="-1"></a></span>
-<span id="cb23-7"><a href="#cb23-7" aria-hidden="true" tabindex="-1"></a><span class="fu">with</span>(the_metrics3, <span class="fu">plot2</span>(<span class="dv">1</span> <span class="sc">-</span> specificity, sensitivity, <span class="at">type =</span> <span class="st">"l"</span>, <span class="at">lwd =</span> lwd_val))</span>
-<span id="cb23-8"><a href="#cb23-8" aria-hidden="true" tabindex="-1"></a></span>
-<span id="cb23-9"><a href="#cb23-9" aria-hidden="true" tabindex="-1"></a><span class="fu">abline</span>(<span class="dv">0</span>, <span class="dv">1</span>)</span>
-<span id="cb23-10"><a href="#cb23-10" aria-hidden="true" tabindex="-1"></a></span>
-<span id="cb23-11"><a href="#cb23-11" aria-hidden="true" tabindex="-1"></a><span class="fu">box</span>(<span class="at">bty =</span> <span class="st">"o"</span>)</span></code><button title="Copy to Clipboard" class="code-copy-button"><i class="bi"></i></button></pre></div>
-<div class="cell-output-display">
-<div>
-<figure class="figure">
-<p><img src="analysis_files/figure-html/unnamed-chunk-19-1.png" class="img-fluid figure-img" width="672"></p>
-</figure>
+<p>The tuned hyper-parameter value is</p>
+<div class="cell" data-layout-align="center">
+<div class="sourceCode cell-code" id="cb23"><pre class="sourceCode r code-with-copy"><code class="sourceCode r"><span id="cb23-1"><a href="#cb23-1" aria-hidden="true" tabindex="-1"></a>tuned_threshold</span></code><button title="Copy to Clipboard" class="code-copy-button"><i class="bi"></i></button></pre></div>
+<div class="cell-output cell-output-stdout">
+<pre><code>[1] 0.66</code></pre>
 </div>
 </div>
-<div class="sourceCode cell-code" id="cb24"><pre class="sourceCode r code-with-copy"><code class="sourceCode r"><span id="cb24-1"><a href="#cb24-1" aria-hidden="true" tabindex="-1"></a><span class="fu">par</span>(opar)</span></code><button title="Copy to Clipboard" class="code-copy-button"><i class="bi"></i></button></pre></div>
-</div>
-<p>AUC:</p>
-<div class="cell">
+<p>The value of the AUC is:</p>
+<div class="cell" data-layout-align="center">
 <div class="sourceCode cell-code" id="cb25"><pre class="sourceCode r code-with-copy"><code class="sourceCode r"><span id="cb25-1"><a href="#cb25-1" aria-hidden="true" tabindex="-1"></a>.<span class="dv">5</span> <span class="sc">+</span> <span class="fu">with</span>(the_metrics3, <span class="fu">sum</span>(.<span class="dv">01</span> <span class="sc">*</span> (sensitivity <span class="sc">+</span> specificity <span class="sc">-</span> <span class="dv">1</span>)))</span></code><button title="Copy to Clipboard" class="code-copy-button"><i class="bi"></i></button></pre></div>
 <div class="cell-output cell-output-stdout">
-<pre><code>[1] 0.5602256</code></pre>
+<pre><code>[1] 0.5454702</code></pre>
 </div>
 </div>
-<p>Testing:</p>
-<div class="cell">
+</section>
+<section id="testing-the-classifier-on-the-test-data-set" class="level3">
+<h3 class="anchored" data-anchor-id="testing-the-classifier-on-the-test-data-set">Testing the classifier on the test data set:</h3>
+<p>Preparing the data to evaluate:</p>
+<div class="cell" data-layout-align="center">
 <div class="sourceCode cell-code" id="cb27"><pre class="sourceCode r code-with-copy"><code class="sourceCode r"><span id="cb27-1"><a href="#cb27-1" aria-hidden="true" tabindex="-1"></a>to_evaluate <span class="ot">&lt;-</span> wflow <span class="sc">|&gt;</span></span>
 <span id="cb27-2"><a href="#cb27-2" aria-hidden="true" tabindex="-1"></a>  <span class="fu">fit</span>(<span class="at">data =</span> train_data) <span class="sc">|&gt;</span> </span>
 <span id="cb27-3"><a href="#cb27-3" aria-hidden="true" tabindex="-1"></a>  <span class="fu">predict</span>(test_data, <span class="at">type =</span> <span class="st">"prob"</span>) <span class="sc">|&gt;</span></span>
@@ -342,23 +356,25 @@ pre > code.sourceCode > span > a:first-child::before { text-decoration: underlin
 <span id="cb27-5"><a href="#cb27-5" aria-hidden="true" tabindex="-1"></a>                                           tuned_threshold)) <span class="sc">|&gt;</span> </span>
 <span id="cb27-6"><a href="#cb27-6" aria-hidden="true" tabindex="-1"></a>  <span class="fu">bind_cols</span>(test_data)</span></code><button title="Copy to Clipboard" class="code-copy-button"><i class="bi"></i></button></pre></div>
 </div>
-<div class="cell">
-<div class="sourceCode cell-code" id="cb28"><pre class="sourceCode r code-with-copy"><code class="sourceCode r"><span id="cb28-1"><a href="#cb28-1" aria-hidden="true" tabindex="-1"></a><span class="fu">metrics2</span>(to_evaluate, BloodCSResult, <span class="at">estimate =</span> predictions)</span></code><button title="Copy to Clipboard" class="code-copy-button"><i class="bi"></i></button></pre></div>
+<p>Let’s evaluate:</p>
+<div class="cell" data-layout-align="center">
+<div class="sourceCode cell-code" id="cb28"><pre class="sourceCode r code-with-copy"><code class="sourceCode r"><span id="cb28-1"><a href="#cb28-1" aria-hidden="true" tabindex="-1"></a><span class="fu">conf_mat</span>(to_evaluate, BloodCSResult, predictions)</span></code><button title="Copy to Clipboard" class="code-copy-button"><i class="bi"></i></button></pre></div>
+<div class="cell-output cell-output-stdout">
+<pre><code>          Truth
+Prediction FALSE TRUE
+     FALSE    78   25
+     TRUE     30   18</code></pre>
+</div>
+<div class="sourceCode cell-code" id="cb30"><pre class="sourceCode r code-with-copy"><code class="sourceCode r"><span id="cb30-1"><a href="#cb30-1" aria-hidden="true" tabindex="-1"></a><span class="fu">metric_set</span>(sens, spec)(to_evaluate, BloodCSResult, <span class="at">estimate =</span> predictions)</span></code><button title="Copy to Clipboard" class="code-copy-button"><i class="bi"></i></button></pre></div>
 <div class="cell-output cell-output-stdout">
 <pre><code># A tibble: 2 × 3
   .metric .estimator .estimate
   &lt;chr&gt;   &lt;chr&gt;          &lt;dbl&gt;
-1 sens    binary         0.73 
-2 spec    binary         0.235</code></pre>
-</div>
-<div class="sourceCode cell-code" id="cb30"><pre class="sourceCode r code-with-copy"><code class="sourceCode r"><span id="cb30-1"><a href="#cb30-1" aria-hidden="true" tabindex="-1"></a><span class="fu">conf_mat</span>(to_evaluate, BloodCSResult, predictions)</span></code><button title="Copy to Clipboard" class="code-copy-button"><i class="bi"></i></button></pre></div>
-<div class="cell-output cell-output-stdout">
-<pre><code>          Truth
-Prediction FALSE TRUE
-     FALSE    73   39
-     TRUE     27   12</code></pre>
+1 sens    binary         0.722
+2 spec    binary         0.419</code></pre>
 </div>
 </div>
+</section>
 </section>
 
 </main>
